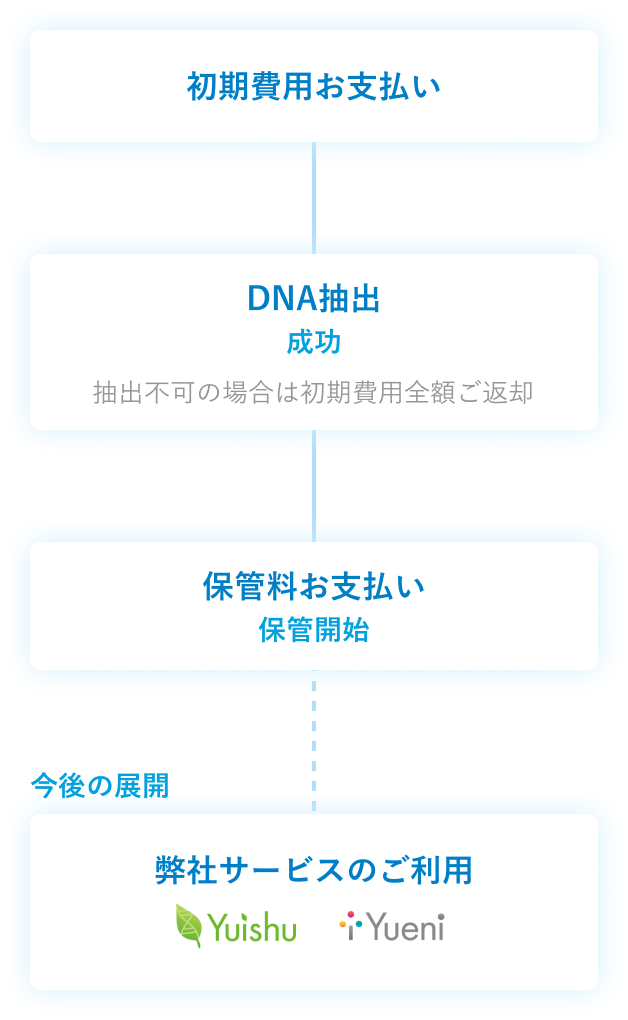
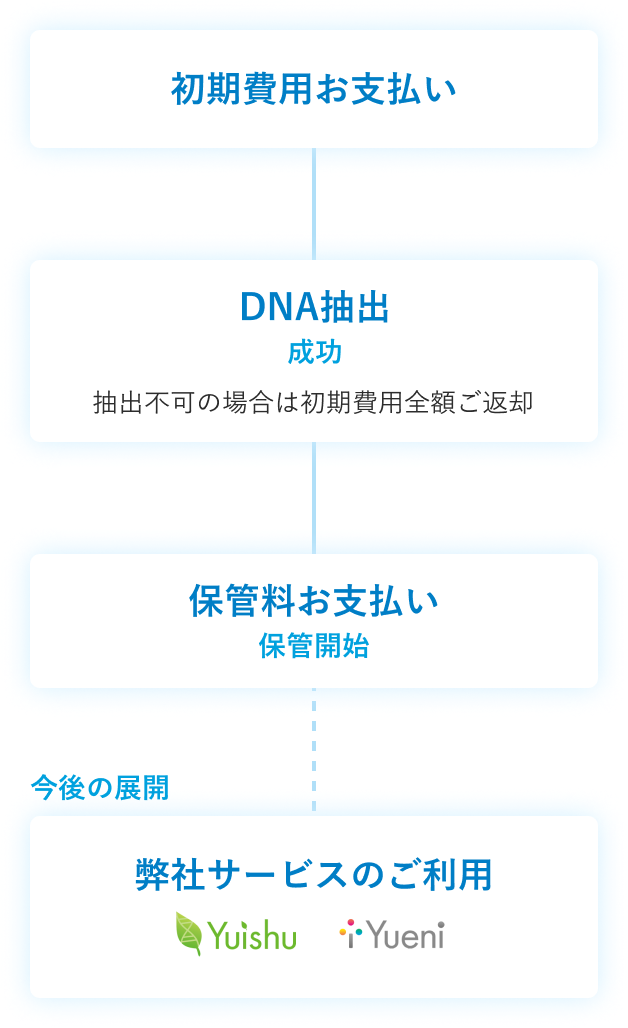
.

diff --git a/css/app.css b/css/app.css
@@ -1,1 +1,1 @@
-a,abbr,acronym,address,applet,article,aside,audio,b,big,blockquote,body,canvas,caption,center,cite,code,dd,del,details,dfn,div,dl,dt,em,embed,fieldset,figcaption,figure,footer,form,h1,h2,h3,h4,h5,h6,header,hgroup,html,i,iframe,img,ins,kbd,label,legend,li,mark,menu,nav,object,ol,output,p,pre,q,ruby,s,samp,section,small,span,strike,strong,summary,table,tbody,td,tfoot,th,thead,time,tr,tt,u,ul,var,video{border:none;font:inherit;font-family:futura-pt,游ゴシック体,YuGothic,游ゴシック Medium,Yu Gothic Medium,游ゴシック,Yu Gothic,メイリオ,Hiragino Kaku Gothic ProN,Hiragino Sans,sans-serif;font-size:100%;margin:0;padding:0;vertical-align:baseline}html{box-sizing:border-box}*,:after,:before{box-sizing:inherit}article,aside,details,figcaption,figure,footer,header,hgroup,main,nav,section,summary{display:block}audio,canvas,video{display:inline-block}body{margin:0}ul{list-style-type:none}a{background:transparent;text-decoration:none}button,input{line-height:normal}input[type=search]{-webkit-appearance:textfield}input[type=search]::-webkit-search-cancel-button,input[type=search]::-webkit-search-decoration{-webkit-appearance:none}button::-moz-focus-inner,input::-moz-focus-inner{border:0;padding:0}textarea{overflow:auto;vertical-align:top}img{display:block;max-width:100%;height:auto}input:focus,textarea:focus{outline:0}input{margin:0;padding:0;-webkit-appearance:none;-moz-appearance:none;appearance:none}*{box-sizing:border-box}html{font-size:10px}.pure-g [class*=pure-u],button,html,input,select,span,textarea{font-family:futura-pt,游ゴシック体,YuGothic,游ゴシック Medium,Yu Gothic Medium,游ゴシック,Yu Gothic,メイリオ,Hiragino Kaku Gothic ProN,Hiragino Sans,sans-serif!important}body{background:#fff;font-size:1.4rem;line-height:1.5}a,body{color:#2c2c2c}.show-pc{display:none!important}.wrap-sp{margin:0 auto;width:90vw}.pure-g{letter-spacing:0!important}@media screen and (min-width:48em){body{font-size:1.6rem}.show-sp{display:none}.show-pc{display:inherit!important}}@media print{@page{margin:1cm}body{background:#fff;color:#2c2c2c}a,blockquote,pre,table{page-break-inside:avoid}dl,ol,ul{page-break-before:avoid}}.m-t-5{margin-top:5px!important}.p-t-5{padding-top:5px!important}.m-b-5{margin-bottom:5px!important}.p-b-5{padding-bottom:5px!important}.m-l-5{margin-left:5px!important}.p-l-5{padding-left:5px!important}.m-r-5{margin-right:5px!important}.p-r-5{padding-right:5px!important}.m-t-10{margin-top:10px!important}.p-t-10{padding-top:10px!important}.m-b-10{margin-bottom:10px!important}.p-b-10{padding-bottom:10px!important}.m-l-10{margin-left:10px!important}.p-l-10{padding-left:10px!important}.m-r-10{margin-right:10px!important}.p-r-10{padding-right:10px!important}.m-t-15{margin-top:15px!important}.p-t-15{padding-top:15px!important}.m-b-15{margin-bottom:15px!important}.p-b-15{padding-bottom:15px!important}.m-l-15{margin-left:15px!important}.p-l-15{padding-left:15px!important}.m-r-15{margin-right:15px!important}.p-r-15{padding-right:15px!important}.m-t-20{margin-top:20px!important}.p-t-20{padding-top:20px!important}.m-b-20{margin-bottom:20px!important}.p-b-20{padding-bottom:20px!important}.m-l-20{margin-left:20px!important}.p-l-20{padding-left:20px!important}.m-r-20{margin-right:20px!important}.p-r-20{padding-right:20px!important}.m-t-25{margin-top:25px!important}.p-t-25{padding-top:25px!important}.m-b-25{margin-bottom:25px!important}.p-b-25{padding-bottom:25px!important}.m-l-25{margin-left:25px!important}.p-l-25{padding-left:25px!important}.m-r-25{margin-right:25px!important}.p-r-25{padding-right:25px!important}.m-t-30{margin-top:30px!important}.p-t-30{padding-top:30px!important}.m-b-30{margin-bottom:30px!important}.p-b-30{padding-bottom:30px!important}.m-l-30{margin-left:30px!important}.p-l-30{padding-left:30px!important}.m-r-30{margin-right:30px!important}.p-r-30{padding-right:30px!important}.m-t-35{margin-top:35px!important}.p-t-35{padding-top:35px!important}.m-b-35{margin-bottom:35px!important}.p-b-35{padding-bottom:35px!important}.m-l-35{margin-left:35px!important}.p-l-35{padding-left:35px!important}.m-r-35{margin-right:35px!important}.p-r-35{padding-right:35px!important}.m-t-40{margin-top:40px!important}.p-t-40{padding-top:40px!important}.m-b-40{margin-bottom:40px!important}.p-b-40{padding-bottom:40px!important}.m-l-40{margin-left:40px!important}.p-l-40{padding-left:40px!important}.m-r-40{margin-right:40px!important}.p-r-40{padding-right:40px!important}.m-t-45{margin-top:45px!important}.p-t-45{padding-top:45px!important}.m-b-45{margin-bottom:45px!important}.p-b-45{padding-bottom:45px!important}.m-l-45{margin-left:45px!important}.p-l-45{padding-left:45px!important}.m-r-45{margin-right:45px!important}.p-r-45{padding-right:45px!important}.m-t-50{margin-top:50px!important}.p-t-50{padding-top:50px!important}.m-b-50{margin-bottom:50px!important}.p-b-50{padding-bottom:50px!important}.m-l-50{margin-left:50px!important}.p-l-50{padding-left:50px!important}.m-r-50{margin-right:50px!important}.p-r-50{padding-right:50px!important}.m-t-75{margin-top:75px!important}.p-t-75{padding-top:75px!important}.m-b-75{margin-bottom:75px!important}.p-b-75{padding-bottom:75px!important}.m-l-75{margin-left:75px!important}.p-l-75{padding-left:75px!important}.m-r-75{margin-right:75px!important}.p-r-75{padding-right:75px!important}.m-t-100{margin-top:100px!important}.p-t-100{padding-top:100px!important}.m-b-100{margin-bottom:100px!important}.p-b-100{padding-bottom:100px!important}.m-l-100{margin-left:100px!important}.p-l-100{padding-left:100px!important}.m-r-100{margin-right:100px!important}.p-r-100{padding-right:100px!important}.cta{position:relative;padding:16px 40px;width:160px;background:linear-gradient(180deg,#00a1de,#007ec6);color:#fff;font-weight:700;text-align:center;z-index:1}.cta,.cta:before{display:block;border-radius:3px}.cta:before{background:linear-gradient(180deg,#007ec6,#00a1de);content:"";height:100%;position:absolute;top:0;left:0;opacity:0;width:100%;z-index:-100;transition:opacity .4s}.cta:hover:before{opacity:1}.cta-wide{position:relative;padding:16px 40px;width:160px;background:linear-gradient(180deg,#00a1de,#007ec6);color:#fff;font-weight:700;text-align:center;z-index:1;width:280px;margin:50px auto 0}.cta-wide,.cta-wide:before{display:block;border-radius:3px}.cta-wide:before{background:linear-gradient(180deg,#007ec6,#00a1de);content:"";height:100%;position:absolute;top:0;left:0;opacity:0;width:100%;z-index:-100;transition:opacity .4s}.cta-wide:hover:before{opacity:1}.cta-fixed-container{position:fixed;bottom:0;width:100vw;height:80px;background:linear-gradient(0deg,#fff,hsla(0,0%,100%,0) 90%);transition:transform .3s ease-out;opacity:1;z-index:5}.cta-fixed-container .cta-fixed{display:block;position:relative;padding:16px 40px;width:200px;background:linear-gradient(180deg,#00a1de,#007ec6);border-radius:3px;color:#fff;font-weight:700;text-align:center;z-index:1;position:absolute;top:50%;left:50%;transform:translate(-50%,-50%)}.cta-fixed-container .cta-fixed:before{background:linear-gradient(180deg,#007ec6,#00a1de);content:"";display:block;height:100%;position:absolute;top:0;left:0;border-radius:3px;opacity:0;width:100%;z-index:-100;transition:opacity .4s}.cta-fixed-container .cta-fixed:hover:before{opacity:1}.cta-fixed-container.hide{transform:translateY(80px);opacity:0;transition:transform .5s ease-in,opacity .5s ease-in}#menu-btn{position:fixed;top:12px;right:12px;width:44px;height:44px;z-index:100}#menu-btn span{position:absolute;width:28px;height:2px;background-color:#007ec6;left:8px;transition:all .3s;transform:rotate(0deg)}#menu-btn .top{top:0;transform:translateY(13px)}#menu-btn .middle{top:21px}#menu-btn .bottom{top:0;transform:translateY(29px)}#menu-btn.active .top{transform:translateY(21px) rotate(-45deg)}#menu-btn.active .middle{opacity:0}#menu-btn.active .bottom{transform:translateY(21px) rotate(45deg)}#menu-pc li a,#menu-sp li a{display:block;font-weight:700;color:#007ec6}#menu-sp{position:fixed;padding:20vh 28px;width:220px;height:100vh;background:linear-gradient(180deg,#fff,hsla(0,0%,100%,.9));top:0;right:0;z-index:10;transform:translateX(0);transition:transform .3s ease-out}#menu-sp li a{padding:20px 0;font-size:2rem}#menu-sp.hide{transform:translateX(220px);transition:transform .3s ease-in}#menu-sp .cta{font-size:1.4rem;color:#fff;padding:12px 0;margin-top:32px}#menu-pc{position:fixed;padding-top:12px;top:0;width:100vw;z-index:100}#menu-pc .menu-container{margin:0 auto;justify-content:flex-end;align-items:center;width:94vw}#menu-pc li{width:148px;height:48px}#menu-pc li:not(:last-child){display:contents}#menu-pc li:not(:last-child)~li a{margin-left:24px}#menu-pc li:not(:last-child) a{position:relative;padding:4px 0;font-size:1.6rem}#menu-pc li:not(:last-child) a:after{content:"";position:absolute;left:50%;bottom:0;width:0;height:2px;background:#007ec6;z-index:-1;transition:all .4s}#menu-pc li:not(:last-child) a:hover:after{width:100%;left:0}#menu-pc li a.cta{display:block;position:relative;padding:12px 16px;width:120px;background:linear-gradient(180deg,#00a1de,#007ec6);border-radius:3px;color:#fff;font-weight:700;text-align:center;z-index:1}#menu-pc li a.cta:before{background:linear-gradient(180deg,#007ec6,#00a1de);content:"";display:block;height:100%;position:absolute;top:0;left:0;border-radius:3px;opacity:0;width:100%;z-index:-100;transition:opacity .4s}#menu-pc li a.cta:hover:before{opacity:1}h1{position:fixed;top:-4px;left:4vw;z-index:100}h1 img{width:104px}#kv{padding-bottom:15vh;z-index:-1}#kv .kv-container{height:100vh;background:linear-gradient(180deg,#dcf2ff,#ecf8ff 15%,hsla(0,0%,100%,0))}#kv .kv-title{position:absolute;top:16vh;left:5vw;font-size:3.4rem;font-weight:700;color:#007ec6;text-shadow:0 0 8px #fff}#kv .kv-title .kv-title-small{font-size:2.2rem}#kv .kv-title .kv-title-highlight{position:relative}#kv .kv-title .kv-title-highlight:after{content:"DNA";position:absolute;bottom:-32px;left:1px;font-size:2rem;font-weight:400;color:#fff;padding:0 12px;background-color:#00a1de;border-radius:3px;opacity:.6;text-shadow:none}#kv .kv-image{position:absolute;width:94vw;top:calc(110px + 16vh)}#kv-content{padding-bottom:20vh;line-height:1.7}#kv-content .kv-content-highlight{color:#007ec6;font-weight:700;font-size:1.8rem;background:linear-gradient(transparent 60%,#b0dff8 0)}.title{padding-bottom:32px;color:#007ec6;font-size:2.8rem;font-weight:700;text-align:center}.has-title-bg{position:relative}.has-title-bg .title-bg{position:absolute;display:block;width:300px;top:12px;left:50%;transform:translateX(-50%);z-index:-1}#flow{padding:15vh 0;position:relative}#flow .flow-item-container{margin:0 auto;width:320px;position:relative}#flow .flow-item-group{justify-content:space-around}#flow .flow-item{position:relative;padding-bottom:64px}#flow .flow-item .flow-item-number{position:absolute;padding:4px;width:28px;height:28px;border-radius:14px;top:10px;left:50%;transform:translateX(-50%);background-color:#b0dff8;color:#fff;font-weight:700;text-align:center}#flow .flow-item .flow-item-image{display:block;margin:0 auto;width:150px}#flow .flow-item .flow-item-title{margin-top:-16px;padding-bottom:12px;font-size:1.6rem;font-weight:700;color:#007ec6;text-align:center}#flow .flow-item .flow-item-desicription{margin:0 auto;padding-bottom:8px;width:140px;font-size:1.2rem;text-align:center}#flow .flow-item .flow-item-desicription-small{margin:0 auto;font-size:1rem;color:#9d9d9d;text-align:center}#flow .flow-line{position:absolute;left:50%;transform:translateX(-50%);z-index:-10}#flow .flow-line.flow-line1-sp{top:220px;width:160px}#flow .flow-line.flow-line2-sp{top:578px;width:160px}#flow .flow-line.flow-line3-sp{top:900px;width:2px}#flow .flow-supplement{padding:40px 0;background-color:#fbfbfb;border-radius:12px}#flow .flow-supplement .flow-supplement-title{padding-bottom:8px;font-size:1.2rem;font-weight:700;text-align:center}#flow .flow-supplement~.flow-supplement{margin-top:16px}#flow .flow-sample table{border-collapse:collapse;margin:0 auto}#flow .flow-sample table tr{border-bottom:1px solid #dadada}#flow .flow-sample table tr:last-child{border-bottom:none}#flow .flow-sample table th{padding:8px 4px;font-size:1rem;font-weight:700;color:#007ec6;width:116px;text-align:left}#flow .flow-sample table td{padding:8px 4px;font-size:1.2rem;width:116px;vertical-align:middle}#flow .flow-sample table td.flow-sample-strong{font-weight:700}#flow .flow-sample table td .flow-sample-small{font-size:1rem;color:#9d9d9d}#flow .flow-sample table .col-narrow{width:72px}#flow .flow-hospital .flow-hospital-list{margin-bottom:20px}#flow .flow-hospital .flow-hospital-list a{display:block;margin:0 auto;text-align:center;text-decoration:underline;color:#007ec6;width:200px}#flow .flow-hospital .flow-hospital-small{text-align:center;font-size:1.2rem}#flow .flow-hospital .flow-hospital-small a{color:#007ec6;text-decoration:underline}#exstraction{padding:15vh 0;height:1200px}#exstraction .exstraction-container{position:relative}#exstraction .exstraction-container .exstraction-item{position:absolute}#exstraction .exstraction-container .exstraction-item .exstraction-item-image{display:block}#exstraction .exstraction-container .exstraction-item .exstraction-item-description,#exstraction .exstraction-container .exstraction-item .exstraction-item-description-small{position:absolute;display:inline-block;font-weight:700;color:#007ec6;padding:8px 16px;box-shadow:0 0 15px #b0dff8;border-radius:5px;background-color:#fff}#exstraction .exstraction-container .exstraction-item .exstraction-item-description-small{font-size:1.2rem}#exstraction .exstraction-container .step1{top:10px;right:10%;transform:translateX(-10%)}#exstraction .exstraction-container .step1 .exstraction-item-image{width:202px}#exstraction .exstraction-container .step1 .exstraction-item-description{bottom:12px;right:-14px}#exstraction .exstraction-container .step2{top:260px;left:20%;transform:translateX(-20%)}#exstraction .exstraction-container .step2 .exstraction-item-image{width:195px}#exstraction .exstraction-container .step2 .exstraction-item-description{bottom:22px;right:-32px}#exstraction .exstraction-container .step3{top:512px;right:10%;transform:translateX(-10%)}#exstraction .exstraction-container .step3 .exstraction-item-image{width:215px}#exstraction .exstraction-container .step3 .exstraction-item-description{bottom:12px;left:-65px}#exstraction .exstraction-container .step4{top:700px;left:25%;transform:translateX(-25%)}#exstraction .exstraction-container .step4 .exstraction-item-image{width:129px}#exstraction .exstraction-container .step4 .exstraction-item-description-small{bottom:-16px;right:-150px}#exstraction .exstraction-container .exstraction-bg-sp{position:absolute;top:70px;left:50%;transform:translateX(-50%);width:100%;max-width:700px;height:700px;background-image:url(../images/design/extraction-bg-sp.42f317.png);background-size:cover;background-position:38%;z-index:-10}#price{padding:80px 0;background:linear-gradient(180deg,#dcf2ff,#ecf8ff 15%,hsla(0,0%,100%,0))}#price .price-item-title{font-weight:700;color:#007ec6;text-align:center;font-size:2.4rem}#price .price-item{width:240px}#price .price-item .price-item-content{text-align:center;color:#2c2c2c;font-weight:400}#price .price-item .price-item-content .price-item-content-num{font-size:3.6rem}#price .price-item.price-item-single{margin:0 auto 32px}#price .price-item.price-item-multiple{margin-top:24px;padding:24px 0;background-color:#fff;border-radius:15px;box-shadow:0 0 15px #b0dff8}#price .price-item .price-item-subtitle{position:relative;padding-bottom:8px;text-align:center;width:100%;color:#007ec6;font-weight:700}#price .price-item .price-item-subtitle .price-item-subtitle-strong{font-size:2rem}#price .price-item .price-item-subtitle:after{content:"";background-color:#007ec6;width:156px;height:1px;position:absolute;bottom:0;left:50%;transform:translateX(-50%)}#price .price-item .price-item-content-count{padding-top:16px;font-size:1.4rem}#price .price-item .price-item-content-count+.price-item-content-num{margin-top:-8px}#price .price-item .price-item-content-description{margin-top:-8px;font-size:1.2rem;color:#9d9d9d}#price .price-item .price-item-small{font-weight:400;font-size:1.2rem;vertical-align:super}#price .price-container{margin:0 auto;width:90vw;justify-content:space-around}#price .price-container+.price-item-title{margin-top:40px}#price .price-description{padding-top:24px;font-size:1.2rem;color:#9d9d9d;width:90vw;margin:0 auto 56px}#price .price-flow{display:block;margin:20px auto 0;width:284px}#product{padding:15vh 0}#product .product-item+.product-item{margin-top:80px}#product .product-item .product-item-image-container{position:relative;margin:0 auto}#product .product-item .product-item-container{margin:0 auto}#product .product-item .product-item-title{margin:16px 0 8px;font-size:1.8rem;font-weight:700;color:#007ec6;text-align:center}#product .product-item .product-item-content{margin-bottom:32px}#product .product-item .product-item-content+.cta{display:block;position:relative;padding:16px 40px;width:232px;background:linear-gradient(180deg,#00a1de,#007ec6);border-radius:3px;color:#fff;font-weight:700;text-align:center;z-index:1;margin:0 auto}#product .product-item .product-item-content+.cta:before{background:linear-gradient(180deg,#007ec6,#00a1de);content:"";display:block;height:100%;position:absolute;top:0;left:0;border-radius:3px;opacity:0;width:100%;z-index:-100;transition:opacity .4s}#product .product-item .product-item-content+.cta:hover:before{opacity:1}#product .product-item .product-item-coming-soon{position:absolute;padding:24px 0;top:0;right:-20px;color:#fff;background-color:#b0dff8;width:80px;height:80px;border-radius:40px;text-align:center;line-height:1.2}#product .product-item .product-item-image-artium{display:block;margin:0 auto;width:200px}#product .product-item .product-item-image-yuishu{display:block;margin:0 auto;width:211px}footer{padding-bottom:100px;justify-content:flex-end}footer .company{text-decoration:underline;color:#007ec6;width:60px;text-align:right}footer .bottom-copy{font-size:1.2rem;width:120px;text-align:right}@media screen and (min-width:20em){#kv .kv-title{font-size:3rem}#kv .kv-title .kv-title-highlight:after{left:-2px}#menu-sp li a{font-size:1.6rem}#exstraction .exstraction-container .step3 .exstraction-item-description{left:-40px}#exstraction .exstraction-container .step4 .exstraction-item-description-small{right:-130px}}@media screen and (min-width:48em){h1{position:fixed;top:-6px;left:4vw;z-index:100}h1 img{width:130px}#kv .kv-title{top:50%;left:20%;transform:translate(-15%,-50%);font-size:5.2rem;z-index:1}#kv .kv-title .kv-title-small{font-size:3.6rem}#kv .kv-title .kv-title-highlight:after{font-size:2.8rem;bottom:-40px;left:8px;padding:0 16px}#kv .kv-image{width:65vw;max-width:800px;top:50%;right:0;transform:translateY(-40%)}#kv-content{width:95vw;max-width:650px}#kv-content .kv-content-highlight{font-size:2rem}.title{font-size:3.8rem;padding-bottom:48px}.has-title-bg .title-bg{width:448px}#flow{padding-bottom:240px}#flow .flow-item-container{width:740px}#flow .flow-item .flow-item-number{width:40px;height:40px;font-size:2rem;border-radius:20px}#flow .flow-item .flow-item-image{width:200px}#flow .flow-item .flow-item-title{font-size:2.4rem}#flow .flow-item .flow-item-desicription{font-size:1.6rem;width:360px}#flow .flow-item .flow-item-desicription-small{font-size:1.3rem;width:360px}#flow .flow-line.flow-line1-pc{top:260px;width:381px}#flow .flow-line.flow-line2-pc{top:648px;width:381px}#flow .flow-line.flow-line3-pc{top:1010px;width:2px}#flow .flow-supplement{max-width:720px}#flow .flow-supplement .flow-supplement-title{padding-bottom:12px;font-size:1.6rem}#flow .flow-sample table th{padding:12px;font-size:1.3rem}#flow .flow-sample table td{padding:12px;font-size:1.4rem;width:160px}#flow .flow-sample table td .flow-sample-small{font-size:1.2rem}#flow .flow-sample table .col-narrow{width:170px}#flow .flow-hospital .flow-hospital-small{font-size:1.3rem}#exstraction{height:2000px}#exstraction .exstraction-container{margin:0 auto;max-width:950px}#exstraction .exstraction-container .exstraction-item .exstraction-item-description{font-size:2.4rem}#exstraction .exstraction-container .exstraction-item .exstraction-item-description-small{font-size:20px}#exstraction .exstraction-container .step1{top:90px;right:20%;transform:translateX(-20%)}#exstraction .exstraction-container .step1 .exstraction-item-image{width:309px}#exstraction .exstraction-container .step2{top:490px;left:24%;transform:translateX(-24%)}#exstraction .exstraction-container .step2 .exstraction-item-image{width:323px}#exstraction .exstraction-container .step3{top:930px}#exstraction .exstraction-container .step3 .exstraction-item-image{width:357px}#exstraction .exstraction-container .step3 .exstraction-item-description{left:-100px}#exstraction .exstraction-container .step4{top:1240px;left:30%;transform:translateX(-30%)}#exstraction .exstraction-container .step4 .exstraction-item-image{width:189px}#exstraction .exstraction-container .step4 .exstraction-item-description-small{right:-280px}#exstraction .exstraction-container .exstraction-bg-pc{position:absolute;top:260px;left:50%;transform:translateX(-50%);width:100%;max-width:950px;height:1032px;background-image:url(../images/design/extraction-bg-pc.e1d3bd.png);background-size:cover;background-position:38%;z-index:-10}#price{padding:120px 0;margin-bottom:120px}#price .price-container{max-width:600px}#price .price-item .price-item-title{font-size:1.6rem}#price .price-item.price-item-single{margin-bottom:56px}#price .price-item .price-item-content .price-item-content-num{font-size:4.8rem}#price .price-item .price-item-content .price-item-content-unit{font-size:1.6rem}#product{padding-bottom:240px}#product .product-item{margin:0 auto;max-width:720px;padding-top:20px}#product .product-item .product-item-image-container{width:200px}#product .product-item .product-item-container{width:448px}#product .product-item .product-item-container .wrap-sp{width:100%}#product .product-item .product-item-title{text-align:left}#product .product-item .product-item-content+.cta{margin:0}footer{padding-bottom:16px}footer .company{width:auto}}
+a,abbr,acronym,address,applet,article,aside,audio,b,big,blockquote,body,canvas,caption,center,cite,code,dd,del,details,dfn,div,dl,dt,em,embed,fieldset,figcaption,figure,footer,form,h1,h2,h3,h4,h5,h6,header,hgroup,html,i,iframe,img,ins,kbd,label,legend,li,mark,menu,nav,object,ol,output,p,pre,q,ruby,s,samp,section,small,span,strike,strong,summary,table,tbody,td,tfoot,th,thead,time,tr,tt,u,ul,var,video{border:none;font:inherit;font-family:futura-pt,游ゴシック体,YuGothic,游ゴシック Medium,Yu Gothic Medium,游ゴシック,Yu Gothic,メイリオ,Hiragino Kaku Gothic ProN,Hiragino Sans,sans-serif;font-size:100%;margin:0;padding:0;vertical-align:baseline}html{box-sizing:border-box}*,:after,:before{box-sizing:inherit}article,aside,details,figcaption,figure,footer,header,hgroup,main,nav,section,summary{display:block}audio,canvas,video{display:inline-block}body{margin:0}ul{list-style-type:none}a{background:transparent;text-decoration:none}button,input{line-height:normal}input[type=search]{-webkit-appearance:textfield}input[type=search]::-webkit-search-cancel-button,input[type=search]::-webkit-search-decoration{-webkit-appearance:none}button::-moz-focus-inner,input::-moz-focus-inner{border:0;padding:0}textarea{overflow:auto;vertical-align:top}img{display:block;max-width:100%;height:auto}input:focus,textarea:focus{outline:0}input{margin:0;padding:0;-webkit-appearance:none;-moz-appearance:none;appearance:none}*{box-sizing:border-box}html{font-size:10px}.pure-g [class*=pure-u],button,html,input,select,span,textarea{font-family:futura-pt,游ゴシック体,YuGothic,游ゴシック Medium,Yu Gothic Medium,游ゴシック,Yu Gothic,メイリオ,Hiragino Kaku Gothic ProN,Hiragino Sans,sans-serif!important}body{background:#fff;font-size:1.4rem;line-height:1.5}a,body{color:#2c2c2c}.show-pc{display:none!important}.wrap-sp{margin:0 auto;width:90vw}.pure-g{letter-spacing:0!important}@media screen and (min-width:48em){body{font-size:1.6rem}.show-sp{display:none}.show-pc{display:inherit!important}}@media print{@page{margin:1cm}body{background:#fff;color:#2c2c2c}a,blockquote,pre,table{page-break-inside:avoid}dl,ol,ul{page-break-before:avoid}}.m-t-5{margin-top:5px!important}.p-t-5{padding-top:5px!important}.m-b-5{margin-bottom:5px!important}.p-b-5{padding-bottom:5px!important}.m-l-5{margin-left:5px!important}.p-l-5{padding-left:5px!important}.m-r-5{margin-right:5px!important}.p-r-5{padding-right:5px!important}.m-t-10{margin-top:10px!important}.p-t-10{padding-top:10px!important}.m-b-10{margin-bottom:10px!important}.p-b-10{padding-bottom:10px!important}.m-l-10{margin-left:10px!important}.p-l-10{padding-left:10px!important}.m-r-10{margin-right:10px!important}.p-r-10{padding-right:10px!important}.m-t-15{margin-top:15px!important}.p-t-15{padding-top:15px!important}.m-b-15{margin-bottom:15px!important}.p-b-15{padding-bottom:15px!important}.m-l-15{margin-left:15px!important}.p-l-15{padding-left:15px!important}.m-r-15{margin-right:15px!important}.p-r-15{padding-right:15px!important}.m-t-20{margin-top:20px!important}.p-t-20{padding-top:20px!important}.m-b-20{margin-bottom:20px!important}.p-b-20{padding-bottom:20px!important}.m-l-20{margin-left:20px!important}.p-l-20{padding-left:20px!important}.m-r-20{margin-right:20px!important}.p-r-20{padding-right:20px!important}.m-t-25{margin-top:25px!important}.p-t-25{padding-top:25px!important}.m-b-25{margin-bottom:25px!important}.p-b-25{padding-bottom:25px!important}.m-l-25{margin-left:25px!important}.p-l-25{padding-left:25px!important}.m-r-25{margin-right:25px!important}.p-r-25{padding-right:25px!important}.m-t-30{margin-top:30px!important}.p-t-30{padding-top:30px!important}.m-b-30{margin-bottom:30px!important}.p-b-30{padding-bottom:30px!important}.m-l-30{margin-left:30px!important}.p-l-30{padding-left:30px!important}.m-r-30{margin-right:30px!important}.p-r-30{padding-right:30px!important}.m-t-35{margin-top:35px!important}.p-t-35{padding-top:35px!important}.m-b-35{margin-bottom:35px!important}.p-b-35{padding-bottom:35px!important}.m-l-35{margin-left:35px!important}.p-l-35{padding-left:35px!important}.m-r-35{margin-right:35px!important}.p-r-35{padding-right:35px!important}.m-t-40{margin-top:40px!important}.p-t-40{padding-top:40px!important}.m-b-40{margin-bottom:40px!important}.p-b-40{padding-bottom:40px!important}.m-l-40{margin-left:40px!important}.p-l-40{padding-left:40px!important}.m-r-40{margin-right:40px!important}.p-r-40{padding-right:40px!important}.m-t-45{margin-top:45px!important}.p-t-45{padding-top:45px!important}.m-b-45{margin-bottom:45px!important}.p-b-45{padding-bottom:45px!important}.m-l-45{margin-left:45px!important}.p-l-45{padding-left:45px!important}.m-r-45{margin-right:45px!important}.p-r-45{padding-right:45px!important}.m-t-50{margin-top:50px!important}.p-t-50{padding-top:50px!important}.m-b-50{margin-bottom:50px!important}.p-b-50{padding-bottom:50px!important}.m-l-50{margin-left:50px!important}.p-l-50{padding-left:50px!important}.m-r-50{margin-right:50px!important}.p-r-50{padding-right:50px!important}.m-t-75{margin-top:75px!important}.p-t-75{padding-top:75px!important}.m-b-75{margin-bottom:75px!important}.p-b-75{padding-bottom:75px!important}.m-l-75{margin-left:75px!important}.p-l-75{padding-left:75px!important}.m-r-75{margin-right:75px!important}.p-r-75{padding-right:75px!important}.m-t-100{margin-top:100px!important}.p-t-100{padding-top:100px!important}.m-b-100{margin-bottom:100px!important}.p-b-100{padding-bottom:100px!important}.m-l-100{margin-left:100px!important}.p-l-100{padding-left:100px!important}.m-r-100{margin-right:100px!important}.p-r-100{padding-right:100px!important}.cta{position:relative;padding:16px 40px;width:160px;background:linear-gradient(180deg,#00a1de,#007ec6);color:#fff;font-weight:700;text-align:center;z-index:1}.cta,.cta:before{display:block;border-radius:3px}.cta:before{background:linear-gradient(180deg,#007ec6,#00a1de);content:"";height:100%;position:absolute;top:0;left:0;opacity:0;width:100%;z-index:-100;transition:opacity .4s}.cta:hover:before{opacity:1}.cta-wide{position:relative;padding:16px 40px;width:160px;background:linear-gradient(180deg,#00a1de,#007ec6);color:#fff;font-weight:700;text-align:center;z-index:1;width:280px;margin:50px auto 0}.cta-wide,.cta-wide:before{display:block;border-radius:3px}.cta-wide:before{background:linear-gradient(180deg,#007ec6,#00a1de);content:"";height:100%;position:absolute;top:0;left:0;opacity:0;width:100%;z-index:-100;transition:opacity .4s}.cta-wide:hover:before{opacity:1}.cta-fixed-container{position:fixed;bottom:0;width:100vw;height:80px;background:linear-gradient(0deg,#fff,hsla(0,0%,100%,0) 90%);transition:transform .3s ease-out;opacity:1;z-index:5}.cta-fixed-container .cta-fixed{display:block;position:relative;padding:16px 40px;width:200px;background:linear-gradient(180deg,#00a1de,#007ec6);border-radius:3px;color:#fff;font-weight:700;text-align:center;z-index:1;position:absolute;top:50%;left:50%;transform:translate(-50%,-50%)}.cta-fixed-container .cta-fixed:before{background:linear-gradient(180deg,#007ec6,#00a1de);content:"";display:block;height:100%;position:absolute;top:0;left:0;border-radius:3px;opacity:0;width:100%;z-index:-100;transition:opacity .4s}.cta-fixed-container .cta-fixed:hover:before{opacity:1}.cta-fixed-container.hide{transform:translateY(80px);opacity:0;transition:transform .5s ease-in,opacity .5s ease-in}#menu-btn{position:fixed;top:12px;right:12px;width:44px;height:44px;z-index:100}#menu-btn span{position:absolute;width:28px;height:2px;background-color:#007ec6;left:8px;transition:all .3s;transform:rotate(0deg)}#menu-btn .top{top:0;transform:translateY(13px)}#menu-btn .middle{top:21px}#menu-btn .bottom{top:0;transform:translateY(29px)}#menu-btn.active .top{transform:translateY(21px) rotate(-45deg)}#menu-btn.active .middle{opacity:0}#menu-btn.active .bottom{transform:translateY(21px) rotate(45deg)}#menu-pc li a,#menu-sp li a{display:block;font-weight:700;color:#007ec6}#menu-sp{position:fixed;padding:20vh 28px;width:220px;height:100vh;background:linear-gradient(180deg,#fff,hsla(0,0%,100%,.9));top:0;right:0;z-index:10;transform:translateX(0);transition:transform .3s ease-out}#menu-sp li a{padding:20px 0;font-size:2rem}#menu-sp.hide{transform:translateX(220px);transition:transform .3s ease-in}#menu-sp .cta{font-size:1.4rem;color:#fff;padding:12px 0;margin-top:32px}#menu-pc{position:fixed;padding-top:12px;top:0;width:100vw;z-index:100}#menu-pc .menu-container{margin:0 auto;justify-content:flex-end;align-items:center;width:94vw}#menu-pc li{width:148px;height:48px}#menu-pc li:not(:last-child){display:contents}#menu-pc li:not(:last-child)~li a{margin-left:24px}#menu-pc li:not(:last-child) a{position:relative;padding:4px 0;font-size:1.6rem}#menu-pc li:not(:last-child) a:after{content:"";position:absolute;left:50%;bottom:0;width:0;height:2px;background:#007ec6;z-index:-1;transition:all .4s}#menu-pc li:not(:last-child) a:hover:after{width:100%;left:0}#menu-pc li a.cta{display:block;position:relative;padding:12px 16px;width:120px;background:linear-gradient(180deg,#00a1de,#007ec6);border-radius:3px;color:#fff;font-weight:700;text-align:center;z-index:1}#menu-pc li a.cta:before{background:linear-gradient(180deg,#007ec6,#00a1de);content:"";display:block;height:100%;position:absolute;top:0;left:0;border-radius:3px;opacity:0;width:100%;z-index:-100;transition:opacity .4s}#menu-pc li a.cta:hover:before{opacity:1}h1{position:fixed;top:-4px;left:4vw;z-index:100}h1 img{width:104px}#kv{padding-bottom:15vh;z-index:-1}#kv .kv-container{height:100vh;background:linear-gradient(180deg,#dcf2ff,#ecf8ff 15%,hsla(0,0%,100%,0))}#kv .kv-title{position:absolute;top:16vh;left:5vw;font-size:3.4rem;font-weight:700;color:#007ec6;text-shadow:0 0 8px #fff}#kv .kv-title .kv-title-small{font-size:2.2rem}#kv .kv-title .kv-title-highlight{position:relative}#kv .kv-title .kv-title-highlight:after{content:"DNA";position:absolute;bottom:-32px;left:1px;font-size:2rem;font-weight:400;color:#fff;padding:0 12px;background-color:#00a1de;border-radius:3px;opacity:.6;text-shadow:none}#kv .kv-image{position:absolute;width:94vw;top:calc(110px + 16vh)}#kv-content{padding-bottom:20vh;line-height:1.7}#kv-content .kv-content-highlight{color:#007ec6;font-weight:700;font-size:1.8rem;background:linear-gradient(transparent 60%,#b0dff8 0)}.title{padding-bottom:32px;color:#007ec6;font-size:2.8rem;font-weight:700;text-align:center}.has-title-bg{position:relative}.has-title-bg .title-bg{position:absolute;display:block;width:300px;top:12px;left:50%;transform:translateX(-50%);z-index:-1}#flow{padding:15vh 0;position:relative}#flow .flow-item-container{margin:0 auto;width:320px;position:relative}#flow .flow-item-group{justify-content:space-around}#flow .flow-item{position:relative;padding-bottom:64px}#flow .flow-item .flow-item-number{position:absolute;padding:4px;width:28px;height:28px;border-radius:14px;top:10px;left:50%;transform:translateX(-50%);background-color:#b0dff8;color:#fff;font-weight:700;text-align:center}#flow .flow-item .flow-item-image{display:block;margin:0 auto;width:150px}#flow .flow-item .flow-item-title{margin-top:-16px;padding-bottom:12px;font-size:1.6rem;font-weight:700;color:#007ec6;text-align:center}#flow .flow-item .flow-item-desicription{margin:0 auto;padding-bottom:8px;width:140px;font-size:1.2rem;text-align:center}#flow .flow-item .flow-item-desicription-small{margin:0 auto;font-size:1rem;color:#9d9d9d;text-align:center}#flow .flow-line{position:absolute;left:50%;transform:translateX(-50%);z-index:-10}#flow .flow-line.flow-line1-sp{top:220px;width:160px}#flow .flow-line.flow-line2-sp{top:578px;width:160px}#flow .flow-line.flow-line3-sp{top:900px;width:2px}#flow .flow-supplement{padding:40px 0;background-color:#fbfbfb;border-radius:12px}#flow .flow-supplement .flow-supplement-title{padding-bottom:8px;font-size:1.2rem;font-weight:700;text-align:center}#flow .flow-supplement~.flow-supplement{margin-top:16px}#flow .flow-sample table{border-collapse:collapse;margin:0 auto}#flow .flow-sample table tr{border-bottom:1px solid #dadada}#flow .flow-sample table tr:last-child{border-bottom:none}#flow .flow-sample table th{padding:8px 4px;font-size:1rem;font-weight:700;color:#007ec6;width:116px;text-align:left}#flow .flow-sample table td{padding:8px 4px;font-size:1.2rem;width:116px;vertical-align:middle}#flow .flow-sample table td.flow-sample-strong{font-weight:700}#flow .flow-sample table td .flow-sample-small{font-size:1rem;color:#9d9d9d}#flow .flow-sample table .col-narrow{width:72px}#flow .flow-hospital .flow-hospital-list{margin-bottom:20px}#flow .flow-hospital .flow-hospital-list a{display:block;margin:0 auto;text-align:center;text-decoration:underline;color:#007ec6;width:200px}#flow .flow-hospital .flow-hospital-small{text-align:center;font-size:1.2rem}#flow .flow-hospital .flow-hospital-small a{color:#007ec6;text-decoration:underline}#exstraction{padding:15vh 0;height:1200px}#exstraction .exstraction-container{position:relative}#exstraction .exstraction-container .exstraction-item{position:absolute}#exstraction .exstraction-container .exstraction-item .exstraction-item-image{display:block}#exstraction .exstraction-container .exstraction-item .exstraction-item-description,#exstraction .exstraction-container .exstraction-item .exstraction-item-description-small{position:absolute;display:inline-block;font-weight:700;color:#007ec6;padding:8px 16px;box-shadow:0 0 15px #b0dff8;border-radius:5px;background-color:#fff}#exstraction .exstraction-container .exstraction-item .exstraction-item-description-small{font-size:1.2rem}#exstraction .exstraction-container .step1{top:10px;right:10%;transform:translateX(-10%)}#exstraction .exstraction-container .step1 .exstraction-item-image{width:202px}#exstraction .exstraction-container .step1 .exstraction-item-description{bottom:12px;right:-14px}#exstraction .exstraction-container .step2{top:260px;left:20%;transform:translateX(-20%)}#exstraction .exstraction-container .step2 .exstraction-item-image{width:195px}#exstraction .exstraction-container .step2 .exstraction-item-description{bottom:22px;right:-32px}#exstraction .exstraction-container .step3{top:512px;right:10%;transform:translateX(-10%)}#exstraction .exstraction-container .step3 .exstraction-item-image{width:215px}#exstraction .exstraction-container .step3 .exstraction-item-description{bottom:12px;left:-65px}#exstraction .exstraction-container .step4{top:700px;left:25%;transform:translateX(-25%)}#exstraction .exstraction-container .step4 .exstraction-item-image{width:129px}#exstraction .exstraction-container .step4 .exstraction-item-description-small{bottom:-16px;right:-150px}#exstraction .exstraction-container .exstraction-bg-sp{position:absolute;top:70px;left:50%;transform:translateX(-50%);width:100%;max-width:700px;height:700px;background-image:url(../images/design/extraction-bg-sp.42f317.png);background-size:cover;background-position:38%;z-index:-10}#price{padding:80px 0;background:linear-gradient(180deg,#dcf2ff,#ecf8ff 15%,hsla(0,0%,100%,0))}#price .price-item-title{font-weight:700;color:#007ec6;text-align:center;font-size:2.4rem}#price .price-item{width:240px}#price .price-item .price-item-content{text-align:center;color:#2c2c2c;font-weight:400}#price .price-item .price-item-content .price-item-content-num{font-size:3.6rem}#price .price-item.price-item-single{margin:0 auto 32px}#price .price-item.price-item-multiple{margin-top:24px;padding:24px 0;background-color:#fff;border-radius:15px;box-shadow:0 0 15px #b0dff8}#price .price-item .price-item-subtitle{position:relative;padding-bottom:8px;text-align:center;width:100%;color:#007ec6;font-weight:700}#price .price-item .price-item-subtitle .price-item-subtitle-strong{font-size:2rem}#price .price-item .price-item-subtitle:after{content:"";background-color:#007ec6;width:156px;height:1px;position:absolute;bottom:0;left:50%;transform:translateX(-50%)}#price .price-item .price-item-content-count{padding-top:16px;font-size:1.4rem}#price .price-item .price-item-content-count+.price-item-content-num{margin-top:-8px}#price .price-item .price-item-content-description{margin-top:-8px;font-size:1.2rem;color:#9d9d9d}#price .price-item .price-item-small{font-weight:400;font-size:1.2rem;vertical-align:super}#price .price-container{margin:0 auto;width:90vw;justify-content:space-around}#price .price-container+.price-item-title{margin-top:40px}#price .price-description{padding-top:24px;font-size:1.2rem;color:#9d9d9d;width:90vw;margin:0 auto 56px}#price .price-flow{display:block;margin:20px auto 0;width:314px}#product{padding:15vh 0}#product .product-item+.product-item{margin-top:80px}#product .product-item .product-item-image-container{position:relative;margin:0 auto}#product .product-item .product-item-container{margin:0 auto}#product .product-item .product-item-title{margin:16px 0 8px;font-size:1.8rem;font-weight:700;color:#007ec6;text-align:center}#product .product-item .product-item-content{margin-bottom:32px}#product .product-item .product-item-content+.cta{display:block;position:relative;padding:16px 40px;width:232px;background:linear-gradient(180deg,#00a1de,#007ec6);border-radius:3px;color:#fff;font-weight:700;text-align:center;z-index:1;margin:0 auto}#product .product-item .product-item-content+.cta:before{background:linear-gradient(180deg,#007ec6,#00a1de);content:"";display:block;height:100%;position:absolute;top:0;left:0;border-radius:3px;opacity:0;width:100%;z-index:-100;transition:opacity .4s}#product .product-item .product-item-content+.cta:hover:before{opacity:1}#product .product-item .product-item-coming-soon{position:absolute;padding:24px 0;top:0;right:-20px;color:#fff;background-color:#b0dff8;width:80px;height:80px;border-radius:40px;text-align:center;line-height:1.2}#product .product-item .product-item-image-artium{display:block;margin:0 auto;width:200px}#product .product-item .product-item-image-yuishu{display:block;margin:0 auto;width:211px}footer{padding-bottom:100px;justify-content:flex-end}footer .company{text-decoration:underline;color:#007ec6;width:60px;text-align:right}footer .bottom-copy{font-size:1.2rem;width:120px;text-align:right}@media screen and (min-width:20em){#kv .kv-title{font-size:3rem}#kv .kv-title .kv-title-highlight:after{left:-2px}#menu-sp li a{font-size:1.6rem}#exstraction .exstraction-container .step3 .exstraction-item-description{left:-40px}#exstraction .exstraction-container .step4 .exstraction-item-description-small{right:-130px}}@media screen and (min-width:48em){h1{position:fixed;top:-6px;left:4vw;z-index:100}h1 img{width:130px}#kv .kv-title{top:50%;left:20%;transform:translate(-15%,-50%);font-size:5.2rem;z-index:1}#kv .kv-title .kv-title-small{font-size:3.6rem}#kv .kv-title .kv-title-highlight:after{font-size:2.8rem;bottom:-40px;left:8px;padding:0 16px}#kv .kv-image{width:65vw;max-width:800px;top:50%;right:0;transform:translateY(-40%)}#kv-content{width:95vw;max-width:650px}#kv-content .kv-content-highlight{font-size:2rem}.title{font-size:3.8rem;padding-bottom:48px}.has-title-bg .title-bg{width:448px}#flow{padding-bottom:240px}#flow .flow-item-container{width:740px}#flow .flow-item .flow-item-number{width:40px;height:40px;font-size:2rem;border-radius:20px}#flow .flow-item .flow-item-image{width:200px}#flow .flow-item .flow-item-title{font-size:2.4rem}#flow .flow-item .flow-item-desicription{font-size:1.6rem;width:360px}#flow .flow-item .flow-item-desicription-small{font-size:1.3rem;width:360px}#flow .flow-line.flow-line1-pc{top:260px;width:381px}#flow .flow-line.flow-line2-pc{top:648px;width:381px}#flow .flow-line.flow-line3-pc{top:1010px;width:2px}#flow .flow-supplement{max-width:720px}#flow .flow-supplement .flow-supplement-title{padding-bottom:12px;font-size:1.6rem}#flow .flow-sample table th{padding:12px;font-size:1.3rem}#flow .flow-sample table td{padding:12px;font-size:1.4rem;width:160px}#flow .flow-sample table td .flow-sample-small{font-size:1.2rem}#flow .flow-sample table .col-narrow{width:170px}#flow .flow-hospital .flow-hospital-small{font-size:1.3rem}#exstraction{height:2000px}#exstraction .exstraction-container{margin:0 auto;max-width:950px}#exstraction .exstraction-container .exstraction-item .exstraction-item-description{font-size:2.4rem}#exstraction .exstraction-container .exstraction-item .exstraction-item-description-small{font-size:20px}#exstraction .exstraction-container .step1{top:90px;right:20%;transform:translateX(-20%)}#exstraction .exstraction-container .step1 .exstraction-item-image{width:309px}#exstraction .exstraction-container .step2{top:490px;left:24%;transform:translateX(-24%)}#exstraction .exstraction-container .step2 .exstraction-item-image{width:323px}#exstraction .exstraction-container .step3{top:930px}#exstraction .exstraction-container .step3 .exstraction-item-image{width:357px}#exstraction .exstraction-container .step3 .exstraction-item-description{left:-100px}#exstraction .exstraction-container .step4{top:1240px;left:30%;transform:translateX(-30%)}#exstraction .exstraction-container .step4 .exstraction-item-image{width:189px}#exstraction .exstraction-container .step4 .exstraction-item-description-small{right:-280px}#exstraction .exstraction-container .exstraction-bg-pc{position:absolute;top:260px;left:50%;transform:translateX(-50%);width:100%;max-width:950px;height:1032px;background-image:url(../images/design/extraction-bg-pc.e1d3bd.png);background-size:cover;background-position:38%;z-index:-10}#price{padding:120px 0;margin-bottom:120px}#price .price-container{max-width:600px}#price .price-item .price-item-title{font-size:1.6rem}#price .price-item.price-item-single{margin-bottom:56px}#price .price-item .price-item-content .price-item-content-num{font-size:4.8rem}#price .price-item .price-item-content .price-item-content-unit{font-size:1.6rem}#product{padding-bottom:240px}#product .product-item{margin:0 auto;max-width:720px;padding-top:20px}#product .product-item .product-item-image-container{width:200px}#product .product-item .product-item-container{width:448px}#product .product-item .product-item-container .wrap-sp{width:100%}#product .product-item .product-item-title{text-align:left}#product .product-item .product-item-content+.cta{margin:0}footer{padding-bottom:16px}footer .company{width:auto}}
